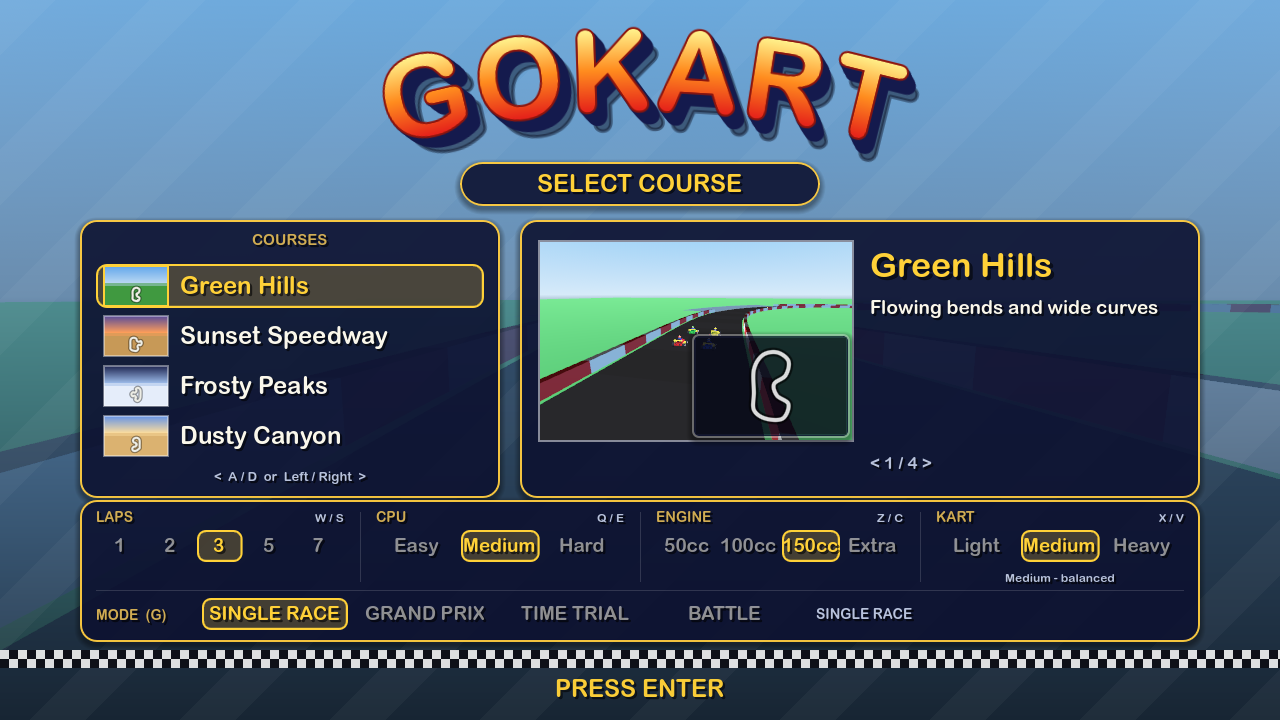
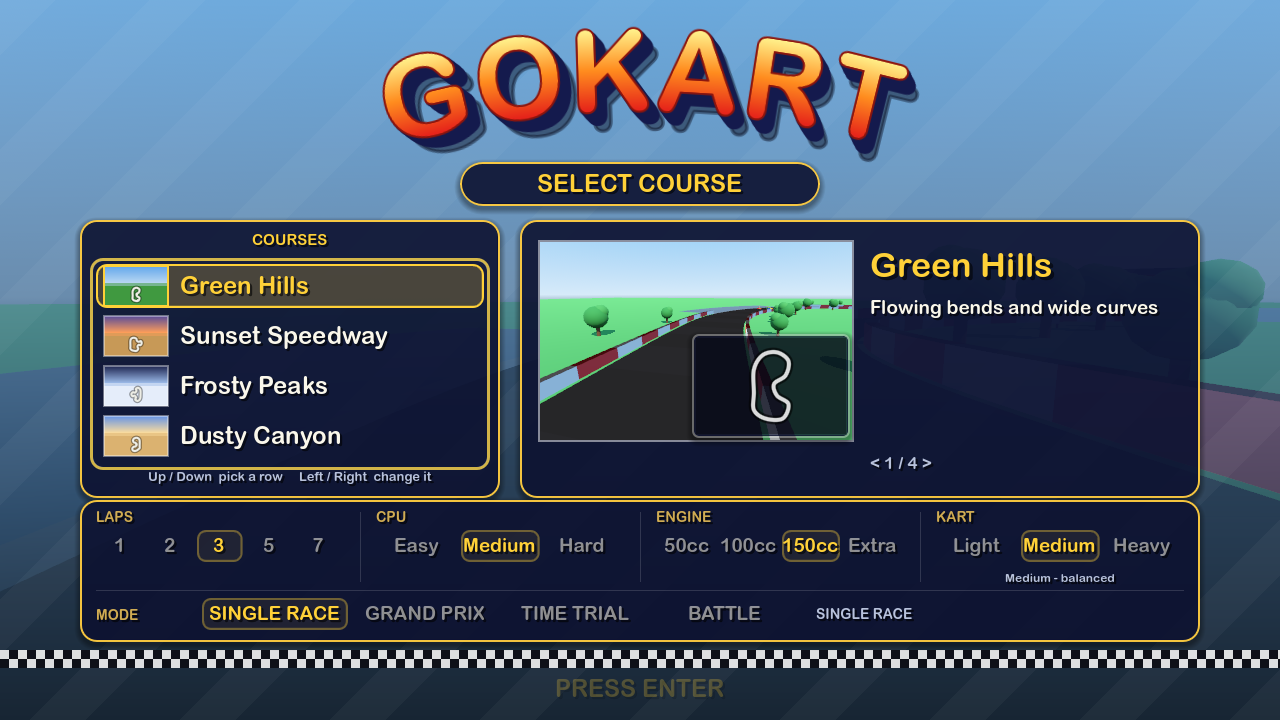
Mario Kart 64 style cursor on the select screen: Up / Down move a pulsing gold cursor frame from row to row — the course list, laps, CPU, engine, kart, the mode tabs (a time trial's fixed rows and the battle balloons are skipped; a cursor on a row the new mode locks moves on) — and Left / Right (A /

diff --git a/README.md b/README.md
@@ -52,7 +52,7 @@ Taken with `godot --path . -s tools/random_drive.gd` (a bot that wanders the roa
 - **AI difficulty** Easy / Medium / Hard on the title menu (`TrackLibrary.DIFFICULTIES`), with Mario Kart 64–style **rubber-banding**: AI karts that fall behind you get a top-speed bonus and karts far ahead ease off, scaled by difficulty (`AiDriver.rubber_band`)
 - **Engine classes** 50cc / 100cc / 150cc / Extra like Mario Kart 64 (Z / C on the title menu): the class scales every kart's top speed and acceleration, player and AI alike; **Extra** is MK64's mirror mode — 150cc speed on every course flipped left-to-right (the menu preview flips too, pads and hazards swap sides) (`TrackLibrary.ENGINE_CLASSES`, `KartPhysics.apply_engine_class`, `TrackData` `mirror` layout flag)
 - **Weight classes** Light / Medium / Heavy like Mario Kart 64's driver roster (X / V on the title menu): light karts accelerate fastest but get thrown aside, heavy karts have the highest top speed, the slowest pick-up and shove others out of the way; kart-to-kart bumps throw both karts apart along the contact, the lighter one much further and slowed, the heavier one keeping its speed. The 7 AI karts mix all three classes and heavy karts are visibly bigger (`scripts/kart_weight.gd`, `Kart.apply_weight_class`, `Kart._bump`, `Main.AI_SPECS`)
-- **Title screen** like Mario Kart 64's: the **GOKART logo** — chunky letters set on an arch like MK64's logo, each shaded from light yellow through orange to red (`shaders/logo_gradient.gdshader`) with a dark red rim, standing out of a deep navy extrusion like MK64's 3D block letters (no black) — sits over a live **attract demo** — four CPU karts lapping the highlighted course in their own 3D viewport behind the menu, watched by a chase camera that hops from kart to kart — with a blinking PRESS ENTER (the demo **tours the courses** like MK64's attract mode: every 15 s it dips to navy under the logo and comes back on the next course, and the select screen opens on the course being watched); Enter brings up the **select screen** laid out like MK64's (the demo keeps running, dimmed, behind it): a "SELECT COURSE" banner, the course list on the left — like MK64's map-select pictures, a little landscape in the course's own sky and ground colours with the road loop across it beside every name, the highlighted row lit in gold with its picture framed in gold — a live **course picture** in a framed window — like MK64's course select, which shows a picture of the course beside the map: a second viewport looks into the demo's world through a camera flying along the road, above and to the right of the centre line, with the course's map outline laid over the picture's corner (in battle mode the demo and the picture show the **picked arena** instead, like MK64's battle map select: four balloon karts patrol the arena's ring of item boxes — two each way round, so they meet and jostle — while the picture camera circles the arena from above) — the course blurb beside it and the option rows underneath — like MK64's Select Mode screen every choice is listed and the picked one is lit: laps 1 / 2 / 3 / 5 / 7, CPU Easy / Medium / Hard, engine 50cc / 100cc / 150cc / Extra, kart Light / Medium / Heavy (its blurb under the row) and the mode tabs SINGLE RACE / GRAND PRIX / TIME TRIAL / BATTLE as gold pills on a lit bar, the rest dim; a fixed value (time-trial laps, battle balloons) sits alone in grey; a blinking PRESS ENTER under the checkered band; a rounded system font with soft drop shadows instead of heavy black outlines. A / D or arrows pick the track, W / S the lap count (1/2/3/5/7), Enter races; Esc in a race returns to the select screen (`scripts/menu.gd`, `scripts/attract.gd`). **Menu sound** like MK64's: a title tune (a brassy fanfare) loops under the title screen and a select tune (a two-bar bass ostinato with brief licks, like MK64's "Selection Screens") takes over with a cross-fade on the select screen — both chiptune loops rendered from code — the cursor ticks, an option key ticks lower and Enter chimes; starting a race hands the chime and the tune to the scene root so the chime plays out and the tune fades while the race loads (`scripts/menu_audio.gd`). **Screen motion** like MK64's: on launch the logo flies in from the distance and bounces to a stop over the demo before PRESS ENTER fades in; leaving the title, the logo glides up to its select-screen spot while the demo dims and the panels rise into place (half a second); back from a race the select screen is simply there
+- **Title screen** like Mario Kart 64's: the **GOKART logo** — chunky letters set on an arch like MK64's logo, each shaded from light yellow through orange to red (`shaders/logo_gradient.gdshader`) with a dark red rim, standing out of a deep navy extrusion like MK64's 3D block letters (no black) — sits over a live **attract demo** — four CPU karts lapping the highlighted course in their own 3D viewport behind the menu, watched by a chase camera that hops from kart to kart — with a blinking PRESS ENTER (the demo **tours the courses** like MK64's attract mode: every 15 s it dips to navy under the logo and comes back on the next course, and the select screen opens on the course being watched); Enter brings up the **select screen** laid out like MK64's (the demo keeps running, dimmed, behind it): a "SELECT COURSE" banner, the course list on the left — like MK64's map-select pictures, a little landscape in the course's own sky and ground colours with the road loop across it beside every name, the highlighted row lit in gold with its picture framed in gold — a live **course picture** in a framed window — like MK64's course select, which shows a picture of the course beside the map: a second viewport looks into the demo's world through a camera flying along the road, above and to the right of the centre line, with the course's map outline laid over the picture's corner (in battle mode the demo and the picture show the **picked arena** instead, like MK64's battle map select: four balloon karts patrol the arena's ring of item boxes — two each way round, so they meet and jostle — while the picture camera circles the arena from above) — the course blurb beside it and the option rows underneath — like MK64's Select Mode screen every choice is listed and the picked one is lit: laps 1 / 2 / 3 / 5 / 7, CPU Easy / Medium / Hard, engine 50cc / 100cc / 150cc / Extra, kart Light / Medium / Heavy (its blurb under the row) and the mode tabs SINGLE RACE / GRAND PRIX / TIME TRIAL / BATTLE as gold pills on a lit bar, the rest dim; a fixed value (time-trial laps, battle balloons) sits alone in grey; a blinking PRESS ENTER under the checkered band; a rounded system font with soft drop shadows instead of heavy black outlines. The screen is driven like an MK64 menu — one stick, one button: Up / Down move a pulsing gold **cursor frame** from row to row (the course list, laps, CPU, engine, kart, the mode tabs — a time trial's fixed rows and the battle balloons are skipped), Left / Right change whatever the frame is on, only the focused row's lit bar glows (the others keep a dim rim) and its caption turns gold; the letter keys (W / S, Q / E, Z / C, X / V, G) still work as shortcuts without moving the frame, so the per-cell key hints are gone and one grey line explains the arrows. Enter races; Esc in a race returns to the select screen (`scripts/menu.gd`, `scripts/attract.gd`). **Menu sound** like MK64's: a title tune (a brassy fanfare) loops under the title screen and a select tune (a two-bar bass ostinato with brief licks, like MK64's "Selection Screens") takes over with a cross-fade on the select screen — both chiptune loops rendered from code — the cursor ticks, an option key ticks lower and Enter chimes; starting a race hands the chime and the tune to the scene root so the chime plays out and the tune fades while the race loads (`scripts/menu_audio.gd`). **Screen motion** like MK64's: on launch the logo flies in from the distance and bounces to a stop over the demo before PRESS ENTER fades in; leaving the title, the logo glides up to its select-screen spot while the demo dims and the panels rise into place (half a second); back from a race the select screen is simply there
 - **Grand Prix cup** (G on the menu): all four tracks are raced in turn like an MK64 cup, Mario Kart 64 points (9 / 6 / 3 / 1) add up after each race, the standings follow the results and the cup ends with a gold, silver or bronze trophy. MK64 cup rules: finish **5th or worse and you rank out** — nothing is scored and the same race is run again (unlimited retries, the HUD shows "RACE 2 / 4  RETRY"); and from the second race on **everyone starts where they finished** the last race (win and you take pole, the player starts 8th only in the first race) (`scripts/grand_prix.gd`, `Main.GRID_SLOTS`)
 - **Time Trials** (G again on the menu), Mario Kart 64 style: race alone for 3 laps at 100cc with a triple mushroom and no item boxes; the five best times and the best lap of each track are saved (`user://time_trials.cfg`) and your fastest run comes back as a see-through, untouchable ghost kart that drives the exact same path on the next attempt (`scripts/time_trial.gd`, `scripts/ghost_recording.gd`, `scripts/ghost_kart.gd`)
 - **3-lap races** with ordered checkpoints and live race ranking (`scripts/lap_tracker.gd`, `scripts/race_ranking.gd`)
@@ -76,6 +76,9 @@ Taken with `godot --path . -s tools/random_drive.gd` (a bot that wanders the roa
 | Space or Shift | Hop into a powerslide; tap the opposite steer key and back twice (smoke yellow, then red) and release for a mini-turbo |
 | E, Enter or Ctrl | Use the held item (a hint shows under the item name) |
 | Q or Backspace | Use it the other way: a single shell fired behind you, a banana / fake box tossed ahead |
+| Up / Down (menu) | Move the cursor frame from row to row: course list, laps, CPU, engine, kart, mode |
+| Left / Right or A / D (menu) | Change the row the cursor is on (pick the course / arena, or step that option) |
+| W / S (menu) | Laps: 1 / 2 / 3 (default) / 5 / 7 |
 | Q / E (menu) | AI difficulty: Easy / Medium (default) / Hard |
 | Z / C (menu) | Engine class: 50cc / 100cc / 150cc (default) / Extra (150cc on mirrored courses) |
 | X / V (menu) | Kart weight: Light / Medium (default) / Heavy |
